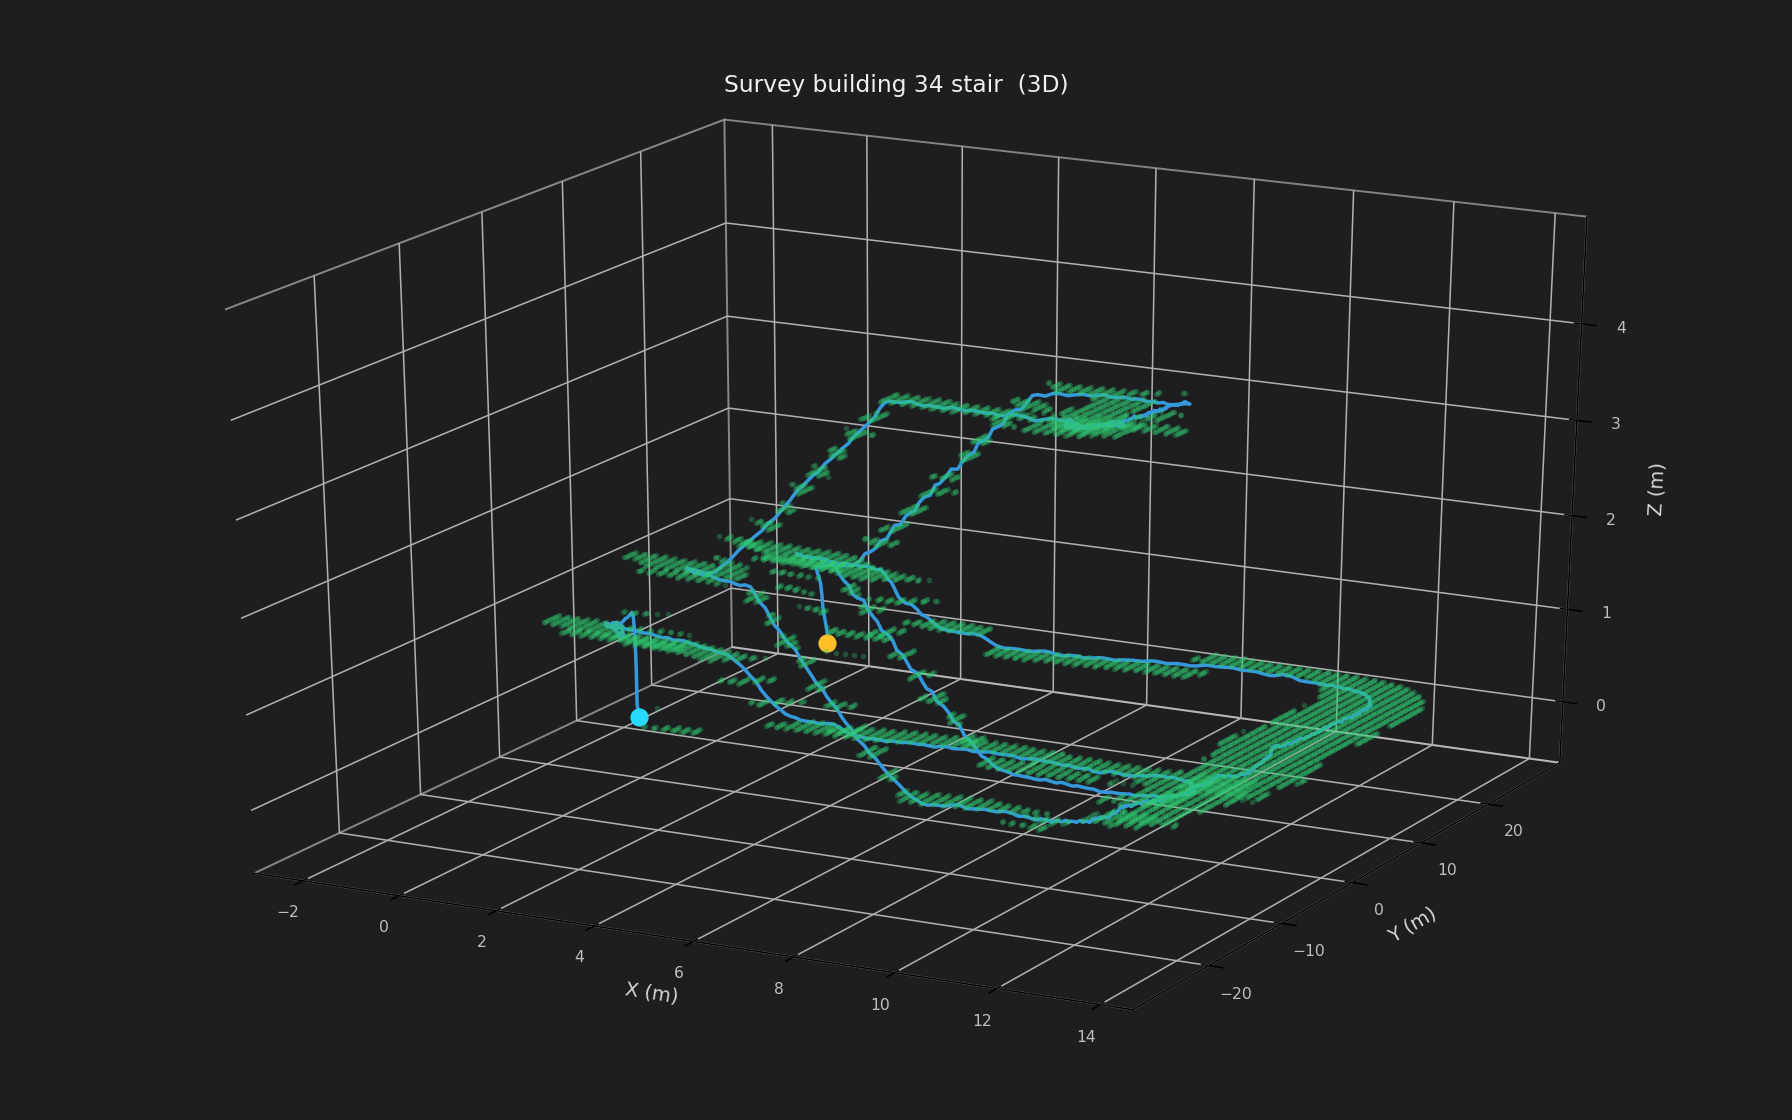
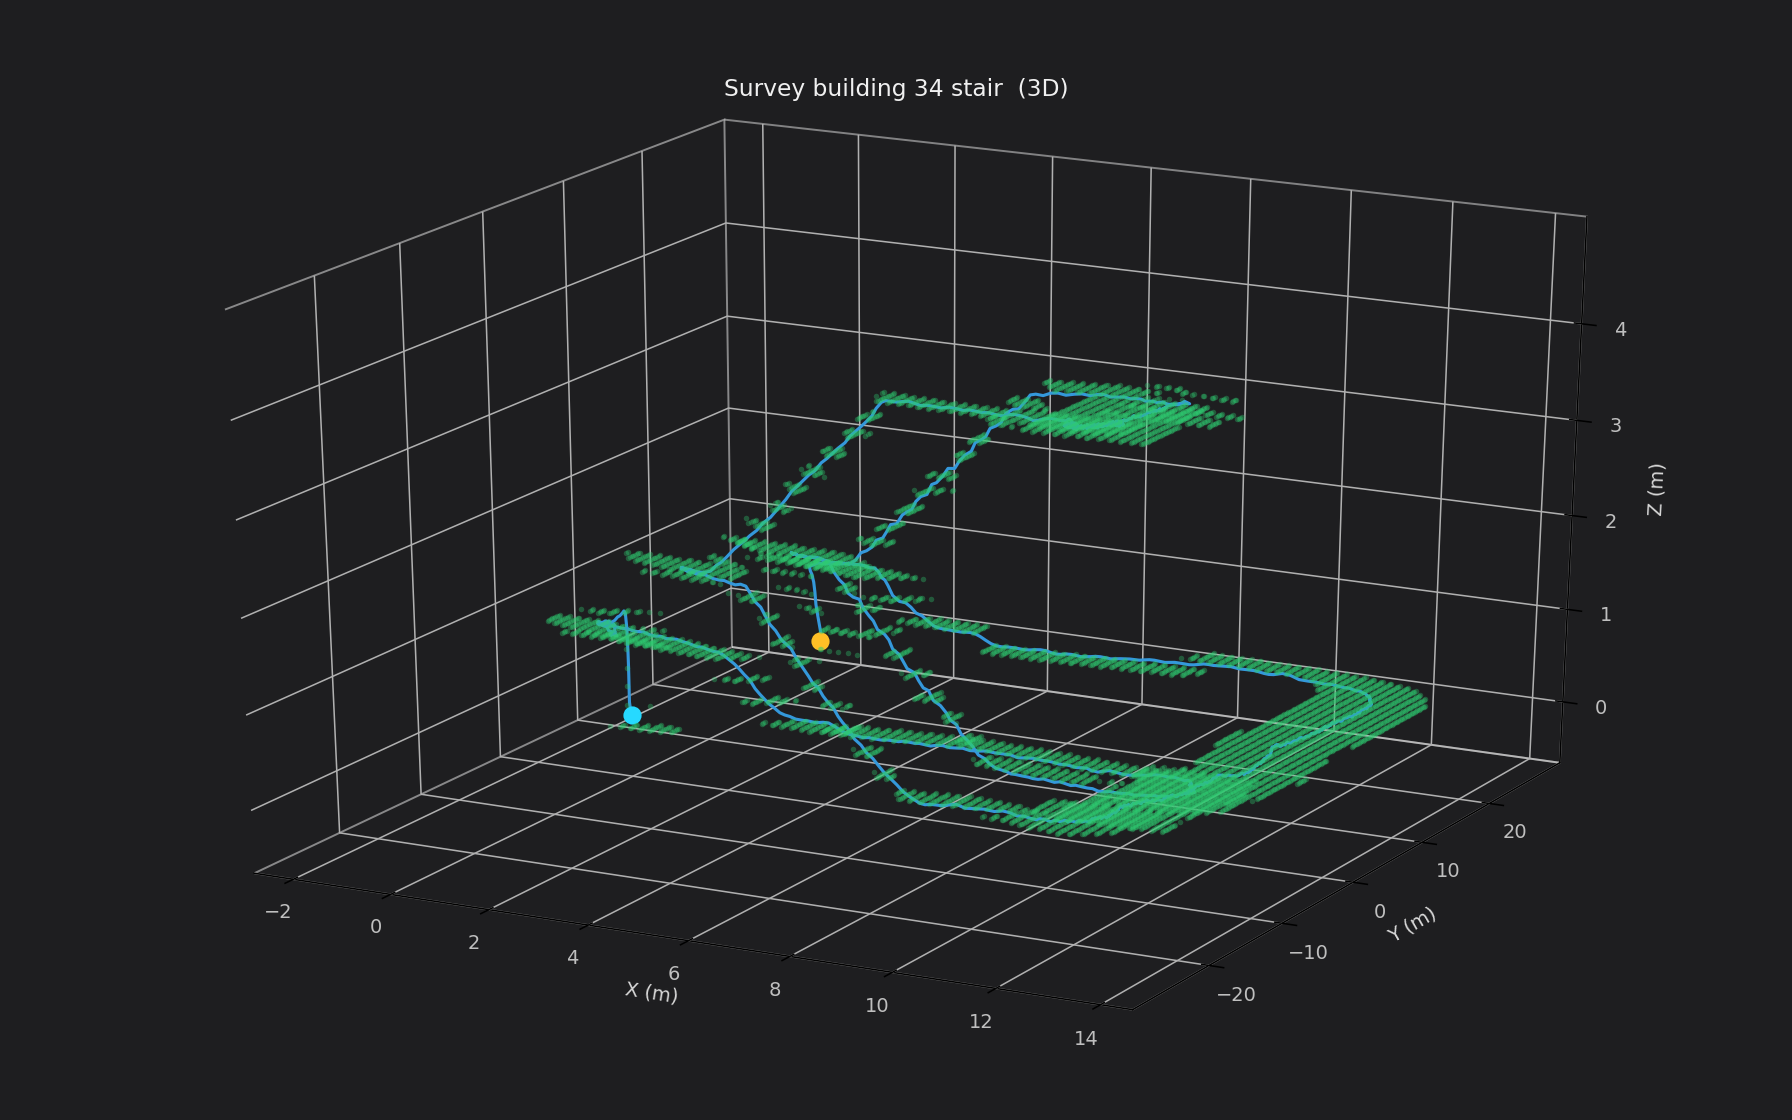
Fix continuous thin stair maps and RViz path loading

diff --git a/scripts/tum_to_plan_map.py b/scripts/tum_to_plan_map.py
@@ -1,5 +1,5 @@
 #!/usr/bin/env python3
-"""TUM 轨迹 -> 单层 FREE 规划地图（不读激光、不裁墙）。"""
+"""TUM 轨迹 -> 连续 FREE 规划地图（不读激光、不裁墙）。"""
 
 from __future__ import annotations
 
@@ -49,41 +49,77 @@ def resample(traj: np.ndarray, stride: float) -> np.ndarray:
     return np.asarray(kept)
 
 
-def inflate_single_layer(xyz: np.ndarray, resolution: float, half_width: float):
-    keys = set()
-    pad = half_width + 0.5 * resolution
+def inflate_continuous_layers(xyz: np.ndarray, resolution: float, half_width: float):
+    """沿三维轨迹密集铺设单体素厚的连续表面。
+
+    同一 XY 允许保留不同楼层的体素，避免楼梯往返或楼层投影重叠时，
+    后选中的高度覆盖前一段轨迹并把可通行带切断。同一次经过在每个
+    XY 只保留离轨迹最近的高度，避免斜坡/台阶叠成竖向厚块。
+    """
+    candidates = {}
+    center_keys = set()
+    radius = half_width + 0.5 * resolution
+    cell_radius = int(math.ceil(radius / resolution))
+    dense_step = 0.4 * resolution
+    sequence = 0
+
     for p0, p1 in zip(xyz[:-1], xyz[1:]):
         delta = p1 - p0
-        dxy = delta[:2]
-        norm = float(np.linalg.norm(dxy))
-        left = np.array([0.0, 1.0]) if norm < 1.0e-8 else np.array([-dxy[1], dxy[0]]) / norm
-        mins = np.minimum(p0[:2], p1[:2]) - pad
-        maxs = np.maximum(p0[:2], p1[:2]) + pad
-        ix0 = int(math.floor(mins[0] / resolution))
-        ix1 = int(math.floor((maxs[0] - 1.0e-9) / resolution))
-        iy0 = int(math.floor(mins[1] / resolution))
-        iy1 = int(math.floor((maxs[1] - 1.0e-9) / resolution))
-        length_sq = float(np.dot(delta, delta))
-        for ix in range(ix0, ix1 + 1):
-            for iy in range(iy0, iy1 + 1):
+        length = float(np.linalg.norm(delta))
+        samples = max(1, int(math.ceil(length / dense_step)))
+        for sample in range(samples):
+            p = p0 + delta * (float(sample) / samples)
+            base_ix = int(math.floor(p[0] / resolution))
+            base_iy = int(math.floor(p[1] / resolution))
+            center_keys.add((base_ix, base_iy, int(math.floor(p[2] / resolution))))
+            for ix in range(base_ix - cell_radius, base_ix + cell_radius + 1):
                 cx = (ix + 0.5) * resolution
-                cy = (iy + 0.5) * resolution
-                if length_sq <= 1.0e-12:
-                    closest = p0
-                else:
-                    query = np.array([cx, cy, p0[2]])
-                    t = min(1.0, max(0.0, float(np.dot(query - p0, delta) / length_sq)))
-                    closest = p0 + t * delta
-                if abs(float(np.dot(np.array([cx, cy]) - closest[:2], left))) <= half_width:
-                    keys.add((ix, iy, int(math.floor(closest[2] / resolution))))
-    collapsed = set()
-    for ix, iy in {(k[0], k[1]) for k in keys}:
-        cx, cy = (ix + 0.5) * resolution, (iy + 0.5) * resolution
-        nearest = int(np.argmin((xyz[:, 0] - cx) ** 2 + (xyz[:, 1] - cy) ** 2))
-        collapsed.add((ix, iy, int(math.floor(xyz[nearest, 2] / resolution))))
-    if not collapsed:
+                for iy in range(base_iy - cell_radius, base_iy + cell_radius + 1):
+                    cy = (iy + 0.5) * resolution
+                    distance_sq = (cx - p[0]) ** 2 + (cy - p[1]) ** 2
+                    if distance_sq <= radius * radius:
+                        candidates.setdefault((ix, iy), []).append(
+                            (sequence, distance_sq, float(p[2]))
+                        )
+            sequence += 1
+
+    # 保证终点也参与铺设。
+    p = xyz[-1]
+    base_ix = int(math.floor(p[0] / resolution))
+    base_iy = int(math.floor(p[1] / resolution))
+    center_keys.add((base_ix, base_iy, int(math.floor(p[2] / resolution))))
+    for ix in range(base_ix - cell_radius, base_ix + cell_radius + 1):
+        cx = (ix + 0.5) * resolution
+        for iy in range(base_iy - cell_radius, base_iy + cell_radius + 1):
+            cy = (iy + 0.5) * resolution
+            distance_sq = (cx - p[0]) ** 2 + (cy - p[1]) ** 2
+            if distance_sq <= radius * radius:
+                candidates.setdefault((ix, iy), []).append(
+                    (sequence, distance_sq, float(p[2]))
+                )
+
+    if not candidates:
         raise SystemExit("没有生成任何体素")
-    return collapsed
+
+    keys = set()
+    # 同一次经过会连续命中一个格子；离开后再次命中则是另一次经过，
+    # 可对应不同楼层。序号间隔阈值略大于走廊直径覆盖的采样数。
+    visit_gap = max(4, int(math.ceil(2.5 * radius / dense_step)))
+    for (ix, iy), values in candidates.items():
+        visit = [values[0]]
+        visits = []
+        for value in values[1:]:
+            if value[0] - visit[-1][0] > visit_gap:
+                visits.append(visit)
+                visit = []
+            visit.append(value)
+        visits.append(visit)
+        for samples in visits:
+            _seq, _distance_sq, z = min(samples, key=lambda value: value[1])
+            keys.add((ix, iy, int(math.floor(z / resolution))))
+
+    keys.update(center_keys)
+    return keys
 
 
 def write_tum_xyz(path: Path, traj: np.ndarray) -> None:
@@ -108,7 +144,7 @@ def write_pcd(path: Path, points: np.ndarray) -> None:
 
 
 def main() -> int:
-    parser = argparse.ArgumentParser(description="由 TUM 生成单层规划地图")
+    parser = argparse.ArgumentParser(description="由 TUM 生成连续规划地图")
     parser.add_argument("--traj", type=Path, required=True, help="TUM: t x y z [qx qy qz qw]")
     parser.add_argument("--output-prefix", type=Path, default=None)
     parser.add_argument("--resolution", type=float, default=0.20)
@@ -121,11 +157,11 @@ def main() -> int:
     raw = read_tum(args.traj)
     traj = resample(raw, args.pose_stride)
     xyz = traj[:, 1:4]
-    voxels = inflate_single_layer(xyz, args.resolution, args.half_width)
-    points = (np.asarray(list(voxels), dtype=np.float64) + 0.5) * args.resolution
+    voxels = inflate_continuous_layers(xyz, args.resolution, args.half_width)
+    points = (np.asarray(sorted(voxels), dtype=np.float64) + 0.5) * args.resolution
 
     prefix = args.output_prefix or args.traj.expanduser().resolve().with_suffix("")
-    prefix = prefix.expanduser()
+    prefix = prefix.expanduser().resolve()
     if prefix.suffix:
         prefix = prefix.with_suffix("")
     free_pcd = Path(str(prefix) + "_free.pcd")

diff --git a/scripts/plan_graph.py b/scripts/plan_graph.py
@@ -10,7 +10,7 @@ from typing import Dict, List, Optional, Sequence, Tuple
 
 import numpy as np
 
-Key = Tuple[int, int]
+Key = Tuple[int, int, int]
 Neighbor = Tuple[int, float]
 
 XY_DIRS = (
@@ -43,10 +43,16 @@ class FreeGraph:
         self.center_weight = max(0.0, float(center_weight))
         self.keys: List[Key] = []
         self.index: Dict[Key, int] = {}
-        for i, (x, y, _z) in enumerate(self.points):
-            key = (int(math.floor(x / self.resolution)), int(math.floor(y / self.resolution)))
+        self.columns: Dict[Tuple[int, int], List[int]] = {}
+        for i, (x, y, z) in enumerate(self.points):
+            key = (
+                int(math.floor(x / self.resolution)),
+                int(math.floor(y / self.resolution)),
+                int(math.floor(z / self.resolution)),
+            )
             self.keys.append(key)
             self.index[key] = i
+            self.columns.setdefault(key[:2], []).append(i)
         self.clearance = self._clearance_cells()
         self.center_pen = self._center_penalty(centerline)
         self.adj: List[List[Neighbor]] = [[] for _ in range(len(self.points))]
@@ -54,23 +60,26 @@ class FreeGraph:
 
     def _clearance_cells(self) -> np.ndarray:
         """到走廊边界的格子距离：0 在边，越大越居中。"""
-        dist = np.full(len(self.points), -1, dtype=np.int32)
+        xy_keys = list(self.columns)
+        xy_index = {key: i for i, key in enumerate(xy_keys)}
+        dist = np.full(len(xy_keys), -1, dtype=np.int32)
         queue: deque = deque()
-        for i, (ix, iy) in enumerate(self.keys):
-            if any((ix + dx, iy + dy) not in self.index for dx, dy in CARDINALS):
+        for i, (ix, iy) in enumerate(xy_keys):
+            if any((ix + dx, iy + dy) not in xy_index for dx, dy in CARDINALS):
                 dist[i] = 0
                 queue.append(i)
         while queue:
             i = queue.popleft()
-            ix, iy = self.keys[i]
+            ix, iy = xy_keys[i]
             for dx, dy in CARDINALS:
-                j = self.index.get((ix + dx, iy + dy))
+                j = xy_index.get((ix + dx, iy + dy))
                 if j is None or dist[j] >= 0:
                     continue
                 dist[j] = dist[i] + 1
                 queue.append(j)
         dist[dist < 0] = 0
-        return dist.astype(np.float64)
+        by_xy = {key: float(dist[i]) for i, key in enumerate(xy_keys)}
+        return np.asarray([by_xy[key[:2]] for key in self.keys], dtype=np.float64)
 
     def _center_penalty(self, centerline: Optional[np.ndarray]) -> np.ndarray:
         """0=最居中，1=贴边。净空 + 到中线距离。"""
@@ -83,35 +92,26 @@ class FreeGraph:
         if centerline is None or len(centerline) == 0:
             return edge
 
-        seeds: deque = deque()
-        lat = np.full(len(self.points), -1, dtype=np.int32)
-        for x, y, _z in np.asarray(centerline, dtype=np.float64):
-            key = (int(math.floor(x / self.resolution)), int(math.floor(y / self.resolution)))
-            idx = self.index.get(key)
-            if idx is None or lat[idx] == 0:
-                continue
-            lat[idx] = 0
-            seeds.append(idx)
-        while seeds:
-            i = seeds.popleft()
-            ix, iy = self.keys[i]
-            for dx, dy in CARDINALS:
-                j = self.index.get((ix + dx, iy + dy))
-                if j is None or lat[j] >= 0:
-                    continue
-                lat[j] = lat[i] + 1
-                seeds.append(j)
-        lat[lat < 0] = int(lat.max()) if lat.max() >= 0 else 0
-        lmax = float(lat.max()) if lat.max() > 0 else 1.0
-        return np.clip(0.35 * edge + 0.65 * (lat.astype(np.float64) / lmax), 0.0, 1.0)
+        center_xy = np.asarray(centerline, dtype=np.float64)[:, :2]
+        lateral = np.empty(len(self.points), dtype=np.float64)
+        batch = 1024
+        for begin in range(0, len(self.points), batch):
+            query = self.points[begin : begin + batch, :2]
+            delta = query[:, None, :] - center_xy[None, :, :]
+            lateral[begin : begin + batch] = np.sqrt(
+                np.min(np.einsum("ijk,ijk->ij", delta, delta), axis=1)
+            )
+        lmax = max(float(lateral.max()), self.resolution)
+        return np.clip(0.35 * edge + 0.65 * (lateral / lmax), 0.0, 1.0)
 
     def _build_edges(self) -> None:
-        for i, (ix, iy) in enumerate(self.keys):
+        for i, (ix, iy, iz) in enumerate(self.keys):
             z0 = self.points[i, 2]
             for dx, dy, horiz in XY_DIRS:
-                j = self.index.get((ix + dx, iy + dy))
-                if j is None:
+                candidates = self.columns.get((ix + dx, iy + dy), ())
+                if not candidates:
                     continue
+                j = min(candidates, key=lambda candidate: abs(float(self.points[candidate, 2] - z0)))
                 dz = abs(float(self.points[j, 2] - z0))
                 if dz > self.max_step:
                     continue
@@ -119,6 +119,10 @@ class FreeGraph:
                 mid = 0.5 * (self.center_pen[i] + self.center_pen[j])
                 cost = geom * (1.0 + self.center_weight * mid * mid)
                 self.adj[i].append((j, cost))
+            for dz_key in (-1, 1):
+                j = self.index.get((ix, iy, iz + dz_key))
+                if j is not None:
+                    self.adj[i].append((j, self.resolution))
 
     def nearest(self, xyz: Sequence[float], max_dist: float) -> Optional[int]:
         query = np.asarray(xyz, dtype=np.float64)
@@ -127,7 +131,12 @@ class FreeGraph:
         if nearby.size == 0:
             return None
         # 点击附近选更居中的格子，避免从走廊边缘起步
-        score = dxy2[nearby] / (max_dist * max_dist + 1.0e-9) + 2.5 * self.center_pen[nearby]
+        dz2 = (self.points[nearby, 2] - query[2]) ** 2
+        score = (
+            dxy2[nearby] / (max_dist * max_dist + 1.0e-9)
+            + dz2 / (self.max_step * self.max_step + 1.0e-9)
+            + 2.5 * self.center_pen[nearby]
+        )
         return int(nearby[int(np.argmin(score))])
 
     def astar(self, start: int, goal: int) -> Optional[np.ndarray]:

diff --git a/scripts/visualize_plan_map.py b/scripts/visualize_plan_map.py
@@ -50,6 +50,18 @@ def read_pcd_xyz(path: Path) -> np.ndarray:
     raise SystemExit("不支持的 PCD DATA: {}".format(kind))
 
 
+def resolve_meta_file(meta_path: Path, value: str) -> Path:
+    candidate = Path(value).expanduser()
+    if candidate.is_absolute():
+        return candidate
+    choices = (
+        meta_path.parent / candidate,
+        meta_path.parent.parent / candidate,
+        Path.cwd() / candidate,
+    )
+    return next((item.resolve() for item in choices if item.exists()), choices[0].resolve())
+
+
 def to_cloud(points: np.ndarray, frame_id: str, stamp) -> PointCloud2:
     msg = PointCloud2()
     msg.header = Header(stamp=stamp, frame_id=frame_id)
@@ -99,9 +111,10 @@ def main() -> int:
     parser.add_argument("--frame-id", default="map")
     args = parser.parse_args(rospy.myargv(argv=sys.argv)[1:])
 
-    meta = json.loads(args.meta.read_text(encoding="utf-8"))
-    free_pts = read_pcd_xyz(Path(meta["free_pcd"]))
-    path_pts = read_tum_xyz(Path(meta["path_tum"]))
+    meta_path = args.meta.expanduser().resolve()
+    meta = json.loads(meta_path.read_text(encoding="utf-8"))
+    free_pts = read_pcd_xyz(resolve_meta_file(meta_path, meta["free_pcd"]))
+    path_pts = read_tum_xyz(resolve_meta_file(meta_path, meta["path_tum"]))
 
     rospy.init_node("visualize_plan_map")
     frame_id = rospy.get_param("~frame_id", args.frame_id)

diff --git a/scripts/plan_io.py b/scripts/plan_io.py
@@ -45,7 +45,23 @@ def read_tum_xyz(path: Path) -> np.ndarray:
 
 
 def load_plan_meta(path: Path) -> dict:
+    path = path.expanduser().resolve()
     meta = json.loads(path.read_text(encoding="utf-8"))
     if "free_pcd" not in meta:
         raise SystemExit("plan json 缺少 free_pcd: {}".format(path))
+    for key in ("free_pcd", "path_tum", "traj"):
+        value = meta.get(key)
+        if not value:
+            continue
+        candidate = Path(value).expanduser()
+        if candidate.is_absolute():
+            meta[key] = str(candidate)
+            continue
+        choices = (
+            path.parent / candidate,
+            path.parent.parent / candidate,
+            Path.cwd() / candidate,
+        )
+        existing = next((item for item in choices if item.exists()), choices[0])
+        meta[key] = str(existing.resolve())
     return meta

diff --git a/scripts/global_planner.py b/scripts/global_planner.py
@@ -202,9 +202,13 @@ def _load_graph(meta: dict, max_step: float, center_weight: float) -> FreeGraph:
 def _path_center_score(graph: FreeGraph, path: np.ndarray) -> float:
     keys = [
         graph.index.get(
-            (int(math.floor(x / graph.resolution)), int(math.floor(y / graph.resolution)))
+            (
+                int(math.floor(x / graph.resolution)),
+                int(math.floor(y / graph.resolution)),
+                int(math.floor(z / graph.resolution)),
+            )
         )
-        for x, y, _z in path
+        for x, y, z in path
     ]
     vals = [graph.center_pen[i] for i in keys if i is not None]
     return float(np.mean(vals)) if vals else 1.0

diff --git a/README.md b/README.md
@@ -70,7 +70,16 @@ roslaunch map_for_plan visualize.launch \
 
 话题：`/initialpose`、`/move_base_simple/goal`、`/plan_map/global_path`。
 
-规划只在单层 FREE 体素上做 8 邻域 A*，相邻格高度差超过 `max_step`（默认 0.80 m）不连通。代价偏好走廊中央（净空大、靠近采集中线），贴边格子更贵；`center_weight` 越大越居中。
+规划在 FREE 体素表面做三维 A*；同一位置仅在楼层重叠时保留多层。相邻格高度差超过 `max_step`（默认 0.80 m）不连通。代价偏好走廊中央（净空大、靠近采集中线），贴边格子更贵；`center_weight` 越大越居中。
+
+如果 RViz 以 `exit code -11` 崩溃，且系统日志指向 Mesa/OpenGL 的 `.glXXXXXX`，
+可启用软件渲染绕开显卡驱动：
+
+```bash
+roslaunch map_for_plan plan.launch \
+  meta:=/path/to/map_plan.json \
+  rviz_software_rendering:=true
+```
 
 ## 输出
 
